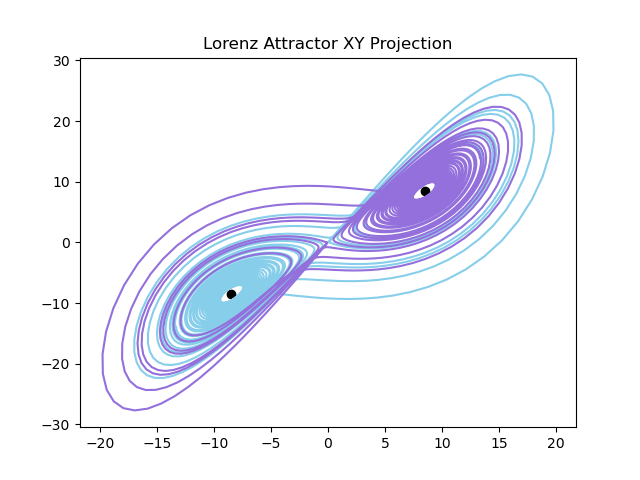
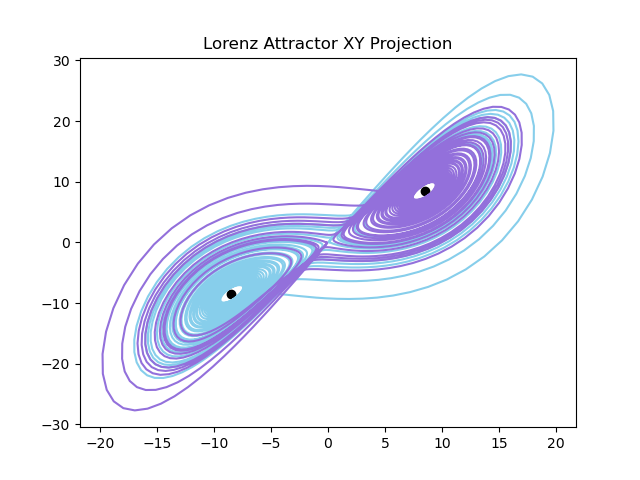
final images

Changed region(s): [[0.2188, 0.2188, 0.8125, 0.7812], [0.625, 0.3125, 0.6562, 0.3438], [0.4062, 0.5938, 0.4375, 0.625]]

diff --git a/lorenz_system.py b/lorenz_system.py
@@ -18,10 +18,15 @@ def plot_lorenz(init_states, trajectory_colors, fixed_point_colors, sigma=10.0, 
     # Generate fixed points
     c = np.sqrt(beta * (rho - 1))
     fixed_points = [(c, c, rho-1), (-c, -c, rho-1)]  
-    
-    # Generate and save XY, XZ, and YZ projections
-    for (x_index, y_index, title) in [(0, 1, 'XY'), (0, 2, 'XZ'), (1, 2, 'YZ')]:
-        fig, ax = plt.subplots()
+
+    # Generate and save XY, XZ, YZ projections and 3D plot
+    for (x_index, y_index, z_index, title) in [(0, 1, None, 'XY'), (0, 2, None, 'XZ'), (1, 2, None, 'YZ'), (0, 1, 2, '3D')]:
+        # Create 3D plot for the 3D case, 2D plot otherwise
+        if z_index is not None:
+            fig = plt.figure()
+            ax = fig.add_subplot(111, projection='3d')
+        else:
+            fig, ax = plt.subplots()
 
         # Loop over initial states and their colors
         for init_state, color in zip(init_states, trajectory_colors):
@@ -31,11 +36,17 @@ def plot_lorenz(init_states, trajectory_colors, fixed_point_colors, sigma=10.0, 
             # Solve for the trajectories
             state = odeint(lorenz, init_state, t, args=(sigma, beta, rho))
 
-            ax.plot(state[:,x_index], state[:,y_index], color=color)  # use specified color
+            if z_index is not None:  # 3D plot
+                ax.plot(state[:,x_index], state[:,y_index], state[:,z_index], color=color)
+            else:  # 2D plot
+                ax.plot(state[:,x_index], state[:,y_index], color=color)
         
         # Plot fixed points with their colors
         for fixed_point, color in zip(fixed_points, fixed_point_colors):
-            ax.scatter(fixed_point[x_index], fixed_point[y_index], color=color)  # use specified color
+            if z_index is not None:  # 3D plot
+                ax.scatter(fixed_point[x_index], fixed_point[y_index], fixed_point[z_index], color=color)
+            else:  # 2D plot
+                ax.scatter(fixed_point[x_index], fixed_point[y_index], color=color)
 
         ax.set_title(f"Lorenz Attractor {title} Projection")
         fig.savefig(os.path.join(save_path, f'lorenz_attractor_{title}_projection.png'))
@@ -47,7 +58,7 @@ plot_lorenz(
     trajectory_colors=[(135/255, 206/255, 235/255), (147/255, 112/255, 219/255)],  # Forest Green and Medium Purple
     fixed_point_colors=['black', 'black'],
     sigma=10.0, beta=8.0/3.0, rho=28, 
-    t_start=0.0, t_end=30.0, dt=0.01,
+    t_start=0.0, t_end=35.0, dt=0.01,
     save_path='./lorenz_images'
 )
 
